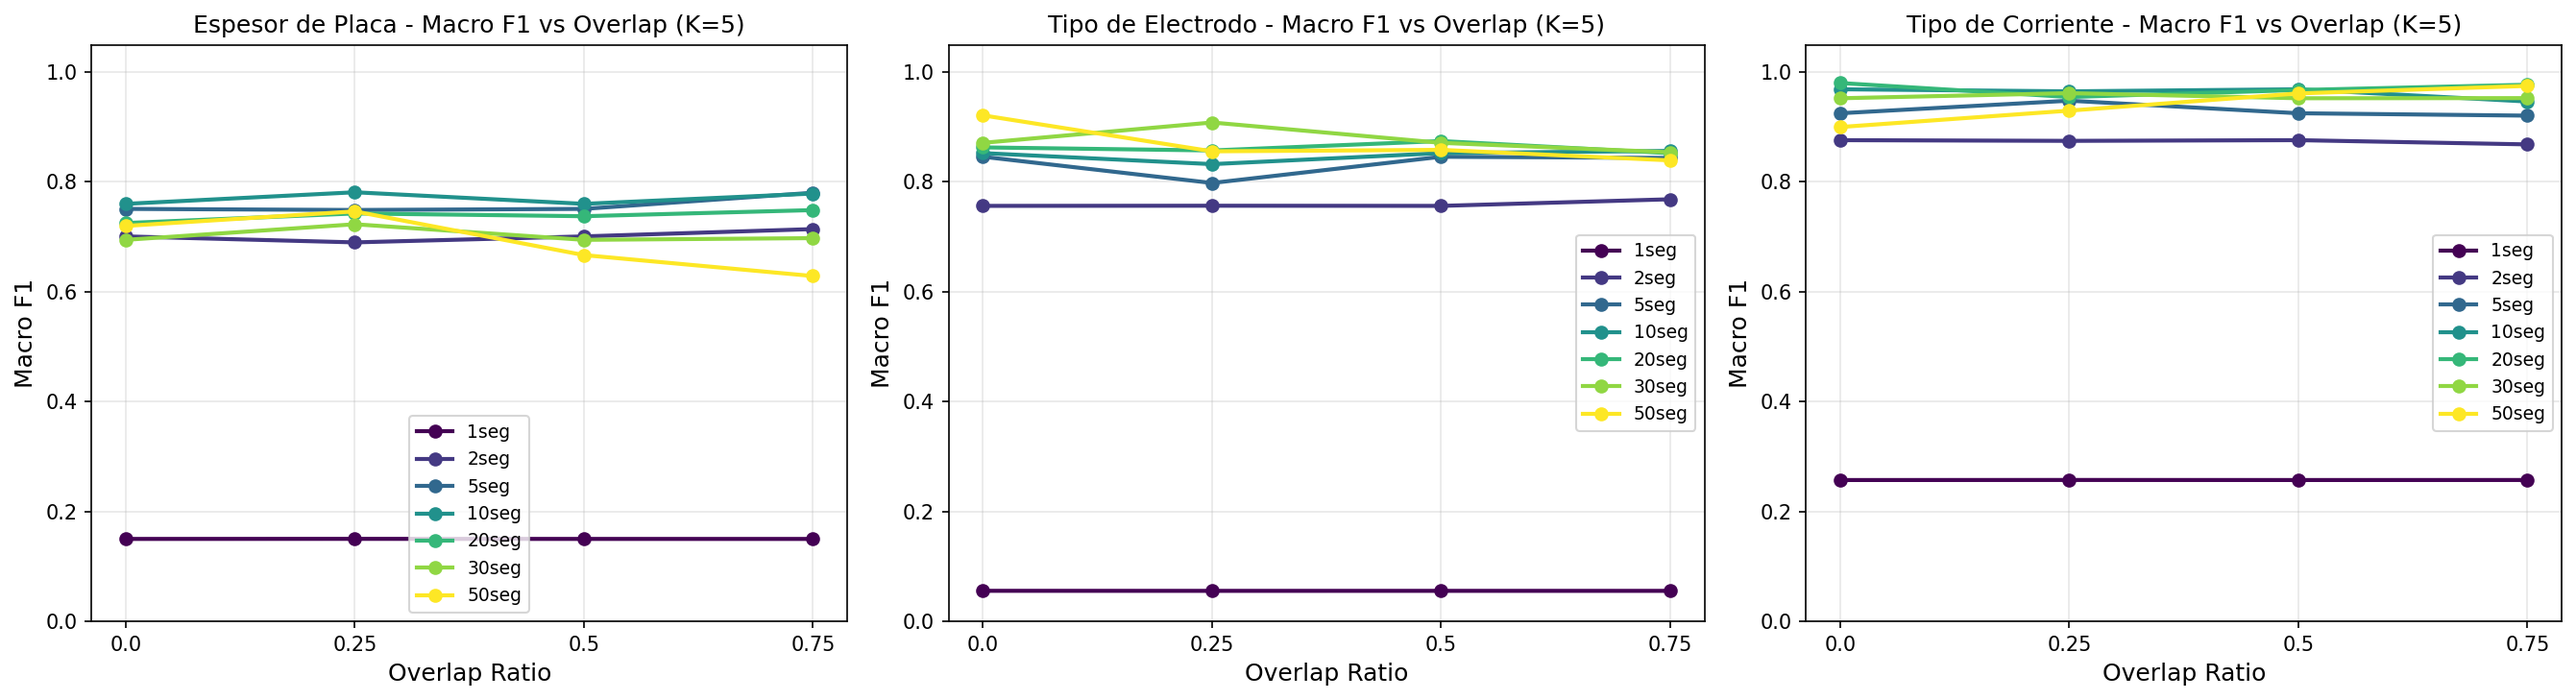
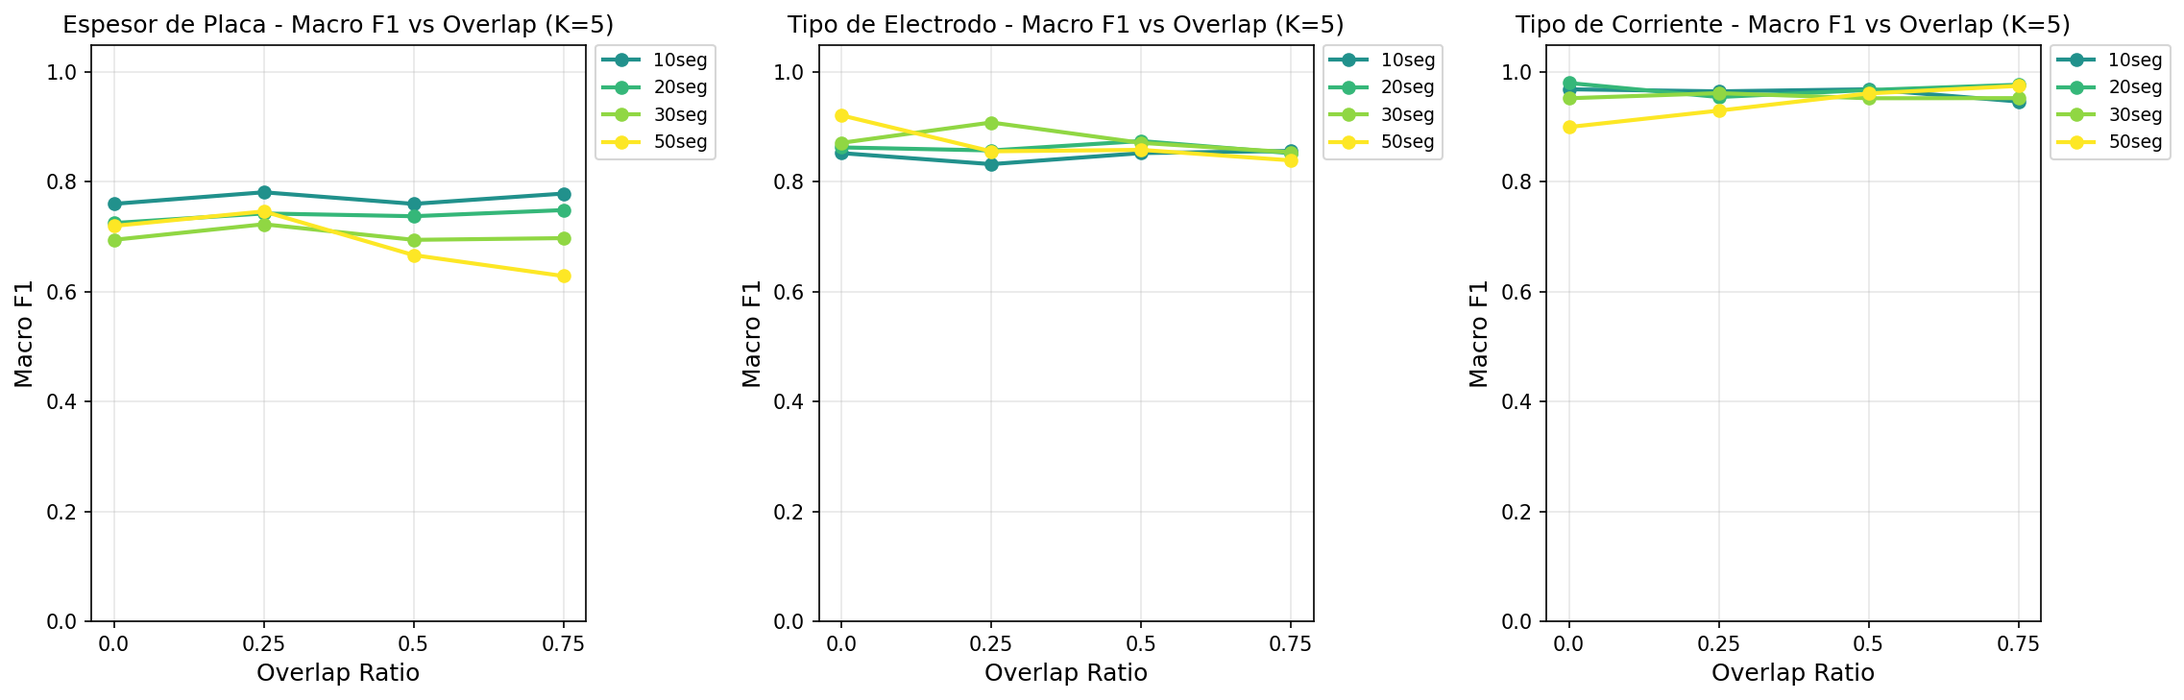
Actualiza tiempos k-fold y unifica leyendas en graficas comparativas

diff --git a/scripts/graficar_tiempo_vs_kfolds.py b/scripts/graficar_tiempo_vs_kfolds.py
@@ -18,6 +18,15 @@ COLORS = {
 }
 
 
+def _parse_timestamp(value: str) -> datetime:
+    if not value:
+        return datetime.min
+    try:
+        return datetime.fromisoformat(value)
+    except ValueError:
+        return datetime.min
+
+
 def extract_kfold_times(results_file: Path) -> dict:
     """
     Extrae los tiempos por k-folds de un archivo resultados.json.
@@ -29,7 +38,7 @@ def extract_kfold_times(results_file: Path) -> dict:
     with open(results_file, 'r') as f:
         results = json.load(f)
     
-    kfold_data = {}
+    kfold_candidates = {}
     for entry in results:
         if 'config' not in entry:
             continue
@@ -38,6 +47,9 @@ def extract_kfold_times(results_file: Path) -> dict:
         if k is None:
             continue
         
+        overlap_ratio = entry['config'].get('overlap_ratio')
+        timestamp = _parse_timestamp(entry.get('timestamp'))
+
         # Tiempo de extraccion VGGish (si existe)
         vggish_info = entry.get('vggish_extraction', {})
         vggish_time_seconds = vggish_info.get('extraction_time_seconds')
@@ -48,12 +60,15 @@ def extract_kfold_times(results_file: Path) -> dict:
             training_only_seconds = entry['training_time'].get('seconds', 0)
             total_seconds = entry.get('execution_time', {}).get('seconds', training_only_seconds)
             
-            kfold_data[k] = {
+            kfold_candidates.setdefault(k, []).append({
                 'total_time': total_seconds / 60,
                 'training_time': training_only_seconds / 60,
                 'vggish_time': vggish_time_seconds / 60 if vggish_time_seconds else None,
                 'from_cache': from_cache,
+                'overlap_ratio': overlap_ratio,
+                'timestamp': timestamp,
             }
+            )
         elif 'execution_time' in entry:
             time_seconds = entry['execution_time'].get('seconds')
             if time_seconds is not None:
@@ -63,13 +78,22 @@ def extract_kfold_times(results_file: Path) -> dict:
                 else:
                     training_only_seconds = time_seconds
                 
-                kfold_data[k] = {
+                kfold_candidates.setdefault(k, []).append({
                     'total_time': time_seconds / 60,
                     'training_time': training_only_seconds / 60,
                     'vggish_time': vggish_time_seconds / 60 if vggish_time_seconds else None,
                     'from_cache': from_cache,
+                    'overlap_ratio': overlap_ratio,
+                    'timestamp': timestamp,
                 }
-    
+                )
+
+    kfold_data = {}
+    for k, candidates in kfold_candidates.items():
+        no_overlap = [c for c in candidates if c['overlap_ratio'] is None]
+        pool = no_overlap if no_overlap else candidates
+        kfold_data[k] = max(pool, key=lambda c: c['timestamp'])
+
     return dict(sorted(kfold_data.items()))
 
 
@@ -130,7 +154,7 @@ def plot_training_time_vs_kfolds(data: dict, duration: str, output_dir: Path):
 def main():
     parser = argparse.ArgumentParser(description='Graficar tiempo de entrenamiento vs k-folds')
     parser.add_argument('--duration', '-d', type=str, default='05seg',
-                       help='Duracion de los segmentos (ej: 05seg, 10seg)'))
+                       help='Duracion de los segmentos (ej: 05seg, 10seg)')
     parser.add_argument('--output', '-o', type=str, default=None,
                        help='Directorio de salida para el grafico')
     

diff --git a/scripts/graficar_overlap.py b/scripts/graficar_overlap.py
@@ -463,13 +463,18 @@ def plot_overlap_all_durations(k_folds: int, metric: str, save: bool, lang: str 
             ),
             fontsize=12,
         )
-        ax.legend(fontsize=9)
+        ax.legend(
+            fontsize=9,
+            loc="upper left",
+            bbox_to_anchor=(1.02, 1),
+            borderaxespad=0,
+        )
         ax.grid(True, alpha=0.3)
         ax.set_ylim(0, 1.05)
         ax.set_xticks(OVERLAPS)
         ax.set_xticklabels([str(ov) for ov in OVERLAPS])
 
-    plt.tight_layout()
+    plt.tight_layout(rect=[0, 0, 0.85, 1])
 
     if save:
         out_dir = ROOT_DIR / "scripts" / "img"

diff --git a/RESULTADOS.md b/RESULTADOS.md
@@ -387,14 +387,14 @@ El tiempo de entrenamiento incluye solo el proceso de K-Fold CV y evaluación de
 
 | K-Folds | Tiempo Entrenamiento (min) |
 | ------- | -------------------------- |
-| 3       | 2.96                       |
+| 3       | 3.67                       |
 | 5       | 3.75                       |
 | 7       | 6.91                       |
 | 10      | 9.87                       |
 | 15      | 14.80                      |
 | 20      | 19.73                      |
 
-![Tiempo vs K-Folds - 5 segundos](05seg/metricas/tiempo_vs_kfolds_5seg_2026-02-05_19-51-47.png)
+![Tiempo vs K-Folds - 5 segundos](05seg/metricas/tiempo_vs_kfolds_05seg_2026-02-08_23-46-22.png)
 
 El tiempo de entrenamiento crece aproximadamente de forma lineal con el número de folds.
 
